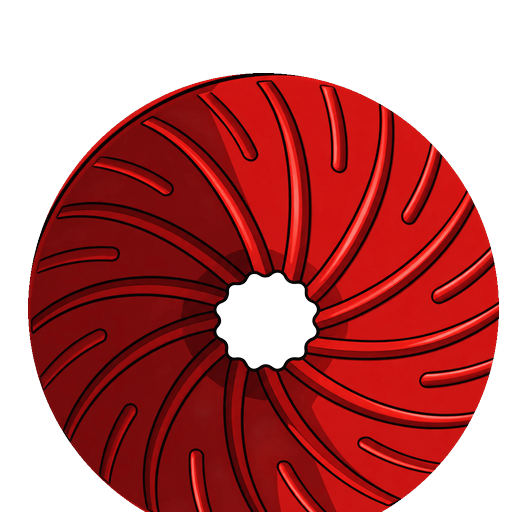
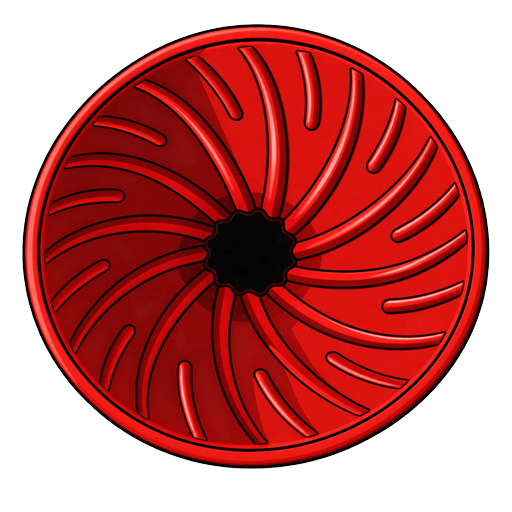
Add files via upload

diff --git a/index.html b/index.html
@@ -84,7 +84,7 @@
         <h1>☕ Mr Coffee</h1>
         <div class="sub">V60 scale-side helper</div>
       </div>
-      <div style="text-align:right"><div class="pill" id="ratioBadge">16:1 · 3× bloom</div><div class="sub" style="margin-top:5px">Mr Coffee · v1.3.9</div></div>
+      <div style="text-align:right"><div class="pill" id="ratioBadge">16:1 · 3× bloom</div><div class="sub" style="margin-top:5px">Mr Coffee · v1.4.0</div></div>
     </div>
 
     <div class="tabs">

diff --git a/service-worker.js b/service-worker.js
@@ -1,4 +1,4 @@
-const CACHE='mr-coffee-v1.3.9';
+const CACHE='mr-coffee-v1.4.0';
 const CORE=['./','./index.html','./manifest.webmanifest','./icon-192.png','./icon-512.png'];
 self.addEventListener('install',e=>{self.skipWaiting();e.waitUntil(caches.open(CACHE).then(c=>c.addAll(CORE)))});
 self.addEventListener('activate',e=>e.waitUntil(caches.keys().then(keys=>Promise.all(keys.filter(k=>k!==CACHE).map(k=>caches.delete(k)))).then(()=>self.clients.claim())));

diff --git a/README.md b/README.md
@@ -38,3 +38,6 @@ v1.3.8 enlarges the transparent icon again and centers it specifically on the dr
 
 
 v1.3.9 removes the handle from the icon art and centers a larger main dripper circle inside the launcher-imposed white circle.
+
+
+v1.4.0 updates the app icon to use the new centered red dripper artwork.
